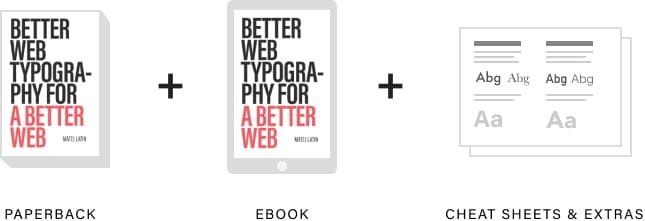
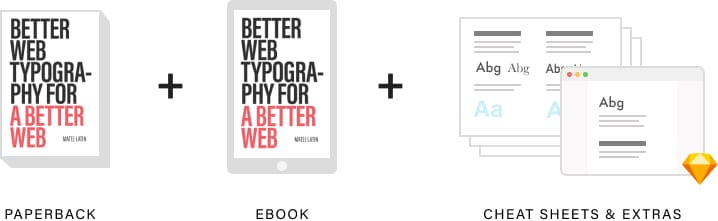
Updates to combo page

diff --git a/combo.html b/combo.html
@@ -1,5 +1,6 @@
 <!DOCTYPE html>
 <html lang="en">
+
 <head>
   <meta charset="UTF-8">
   <meta name="viewport" content="width=device-width, initial-scale=1.0, minimum-scale=1.0">
@@ -27,53 +28,71 @@
       window.location.protocol = "https";
   </script>
 </head>
+
 <body class="side-pad-10">
   <div class="max-width-hdpi">
     <header class="off-1 col-10">
       <div class="logo"><a href="/">Better Web Type</a></div>
-      <nav><a href="/about" class="">About</a> <a href="/web-typography-resources" class="">Resources</a> <a href="/">Free course</a> <a href="/web-typography-book">Get the book</a></nav>
+      <nav><a href="/about" class="">About</a> <a href="/web-typography-resources"
+          class="">Resources</a> <a href="/">Free course</a> <a href="/web-typography-book">Get
+          the book</a></nav>
     </header>
   </div>
-    <div class="group max-width-hdpi">
-      <article class="off-1 col-10">
-        <div class="intro-wrap">
-          <figure class="alignCenter t-m-4 floatCenter" style="max-width: 645px">
-            <img src="assets/images/combo-pack@2x.jpg" class="floatCenter">
-          </figure>
-          <h2 class="alignCenter max-width-500px floatCenter">Better Web Typography For A Better Web</h2>
-          <hr class="floatCenter">
-          <p class="tagline-large alignCenter floatCenter">Paperback + eBook & extras combo pack</p>
-          <p class="alignCenter floatCenter">High-quality color print on coated paper <br>
-            Kindle, epub & PDF files <br>
-            Example website source code<br>
-            30+ live code examples <br>
-            Better web typography cheat sheet (Printable, 2-sided) <br>
+  <div class="group max-width-hdpi">
+    <article class="off-1 col-10">
+      <div class="intro-wrap">
+        <figure class="alignCenter t-m-4 floatCenter" style="max-width: 645px">
+          <img src="assets/images/combo-pack@2x.jpg" class="floatCenter">
+        </figure>
+        <h2 class="alignCenter max-width-500px floatCenter">Better Web
+          Typography For A Better Web</h2>
+        <hr class="floatCenter">
+        <p class="tagline-large alignCenter floatCenter">Paperback + eBook &
+          extras combo pack</p>
+        <p class="alignCenter floatCenter">High-quality color print on coated
+          paper <br>
+          Kindle, epub & PDF files <br>
+          Example website source code<br>
+          30+ live code examples <br>
+          Better web typography cheat sheet (Printable, 2-sided) <br>
           Combining fonts cheat sheet (Printable, 2-sided)</p>
-          <p class="f-acumin alignCenter floatCenter f-s-24px"> <del>$54.90</del>  <strong class="c-mix">$39.95</strong></p>
-          <a class="buy-button button js-prevent-cart-listener floatCenter buyButton alignCenter" id="buyButton" href="https://better-web-type.myshopify.com/cart/13301913059426:1?channel=buy_button">Buy now</a>
-          <p class="f-acumin floatCenter no-bottom-margin uppercase f-s-10px alignCenter">Free Shipping Worldwide</p>
-          <div class="alignCenter floatCenter t-m-2">
-            <p class="floatCenter alignCenter">
-              <strong class="f-acumin floatCenter">Upcoming updates that you’ll receive</strong>
-            </p>
-            <p class="f-acumin uppercase f-s-14px floatCenter">October 2018</p>
-            <p class="floatCenter">Example website Sketch files  <span class="money-back f-acumin f-s-14px">added on Oct 7</span><br>
-            Rhythm in typography cheat sheet (Printable, 2-sided) <span class="money-back f-acumin f-s-14px">added on Oct 14</span></p>
-            <p class="f-acumin uppercase f-s-14px floatCenter">November 2018</p>
-            <p class="floatCenter">Recognizing font styles cheat sheet (Printable, 2-sided) <br>
+        <p class="f-acumin alignCenter floatCenter f-s-24px"> <del>$64.90</del>
+          <strong class="c-mix">$39.95</strong></p>
+        <a class="buy-button button js-prevent-cart-listener floatCenter buyButton alignCenter"
+          id="buyButton" href="https://better-web-type.myshopify.com/cart/13301913059426:1?channel=buy_button">Buy
+          now</a>
+        <p class="f-acumin floatCenter no-bottom-margin uppercase f-s-10px alignCenter">Free
+          Shipping Worldwide</p>
+        <div class="alignCenter floatCenter t-m-2">
+          <p class="floatCenter alignCenter">
+            <strong class="f-acumin floatCenter">Upcoming updates that you’ll
+              receive</strong>
+          </p>
+          <p class="f-acumin uppercase f-s-14px floatCenter">October 2018</p>
+          <p class="floatCenter">Example website Sketch files <span class="money-back f-acumin f-s-14px">added
+              on Oct 7</span><br>
+            Rhythm in typography cheat sheet (Printable, 2-sided) <span class="money-back f-acumin f-s-14px">added
+              on Oct 14</span></p>
+          <p class="f-acumin uppercase f-s-14px floatCenter">November 2018</p>
+          <p class="floatCenter">Recognizing font styles cheat sheet
+            (Printable, 2-sided) <br>
             Better Web Typography checklist</p>
-          </div>
         </div>
-      </article>
-    </div>
+      </div>
+    </article>
+  </div>
 
   <footer class="alignCenter">
     <h1>Better Web Type</h1>
-    <p class="floatCenter"><strong>Brought to you by <a href="http://matejlatin.co.uk">Matej Latin</a>.</strong><br>
-      <a href="contact" id="link-contact">Contact</a> • <a href="terms" id="link-terms">Terms &amp; Conditions</a> • <a href="privacy" id="link-privacy">Privacy Policy</a>
+    <p class="floatCenter"><strong>Brought to you by <a href="http://matejlatin.co.uk">Matej
+          Latin</a>.</strong><br>
+      <a href="contact" id="link-contact">Contact</a> • <a href="terms" id="link-terms">Terms
+        &amp; Conditions</a> • <a href="privacy" id="link-privacy">Privacy
+        Policy</a>
     </p>
   </footer>
   <script src="https://ajax.googleapis.com/ajax/libs/jquery/2.1.3/jquery.min.js"></script>
   <script src="assets/combined.min.js"></script>
 </body>
+
 </html>
